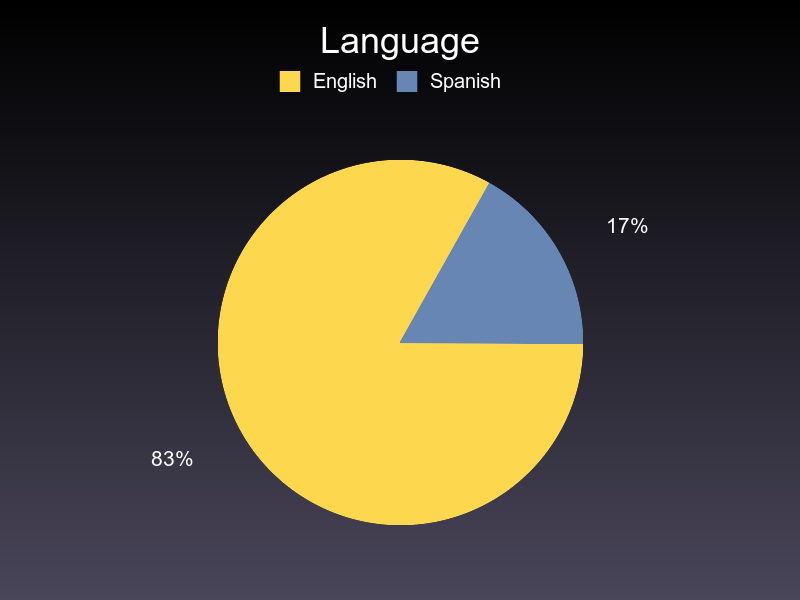
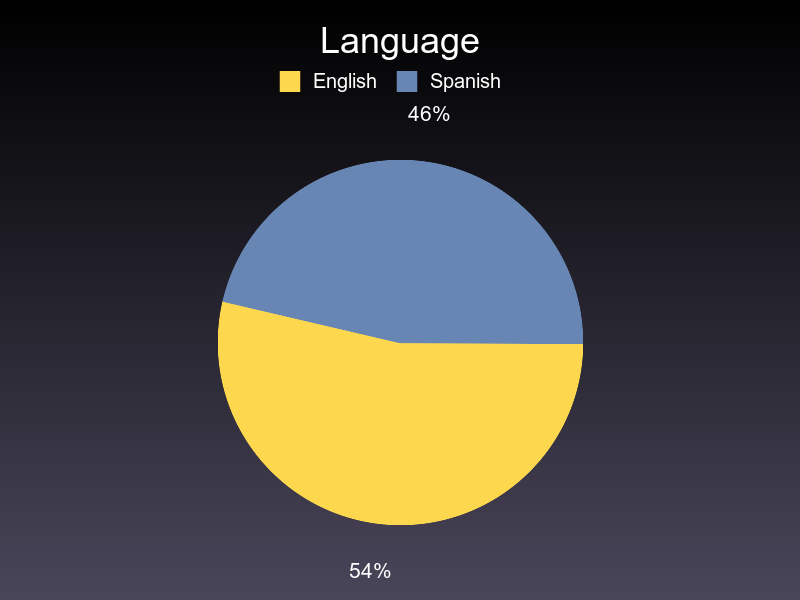
modularize enrollment

diff --git a/stats.rb b/stats.rb
@@ -1,6 +1,9 @@
 require_relative('bin/production.rb')
+require 'dotenv'
+Dotenv.load
 require 'gruff'
 require 'fileutils'
+require 'twilio-ruby'
 
 class Stats
   attr_accessor :name, :users, :start_date, :dir, :time_interval
@@ -30,7 +33,26 @@ class Stats
 
   # refactor so that methods just return arrays and we do the graphing elsewhere
 
+  def text_replies
+    phone_numbers = users.map(:phone)
+
+    client = Twilio::REST::Client.new ENV['TW_ACCOUNT_SID'], ENV['TW_AUTH_TOKEN']
+
+    messages = client.account.messages.list
+    messages.each do |msg|
+      puts msg.body
+    end
+
+  end
+
+
   def draw_graph(graph, url)
+    dirname = "graphs/#{dir}"
+    unless File.directory?(dirname)
+      FileUtils.mkdir_p(dirname)
+    end
+    base_url = "graphs/#{dir}"
+    graph.write("graphs/#{dir}/#{url}")
   end
 
   def dropout_rates(interval=1.week, our_users=users)
@@ -54,7 +76,7 @@ class Stats
       date += interval
     end
     g.data "Number of Dropouts", num_dropouts
-    g.write('graphs/number_of_dropouts.png')
+    # g.write('graphs/number_of_dropouts.png')
 
     return the_dropouts
   end
@@ -65,11 +87,19 @@ class Stats
     dropouts = fb_users.filter(state_table: StateTable.where(subscribed?: false)
                                                       .where{story_number > 1})
 
+    if dropouts.count == 0
+      puts "THERE ARE NO DROPOUTS, YAY!"
+      return 
+    end
+
     # we're going every month
     today = Time.now + 1.week
 
     date_index = 0
     date = dropouts.min(:enrolled_on)
+
+
+
     interval = 2.weeks
 
     g = Gruff::Bar.new
@@ -83,8 +113,6 @@ class Stats
     all_dropouts.each do |dropouts_this_month|
       dropout_weeks = []
       story_nos     = []
-
-      # FINISH THIS IMPLEMENTATION OF DROPOUTS USING DROPOUT_RATES
 
       dropouts_this_month.each do |u|
         st = u.state_table
@@ -101,42 +129,13 @@ class Stats
     end
 
 
-
-    # while date < today
-    #   # using updated_at here... need to make sure that the state_table
-    #   # stops updating when the user is unsubscribed. hmm.........
-    #   # can we do this with a validation? or just sniffing the code?
-    #   dropouts_this_month = dropouts.where(state_table: StateTable.where{updated_at >= date}
-    #                                                               .where{updated_at < date + interval})
-    #   # find the average number of weeks they were on the program
-    #   # and story_number
-
-    #   dropout_weeks = []
-    #   story_nos     = []
-
-    #   dropouts_this_month.each do |u|
-    #     st = u.state_table
-    #     dropout_weeks << (st.updated_at - u.enrolled_on)/1.week
-    #     story_nos << st.story_number
-    #   end
-
-    #   # clever ways to do averages with inject: 
-
-    #   avg_dw = (dropout_weeks.inject(:+).to_f / dropout_weeks.size)
-    #   avg_sn = (story_nos.inject(:+).to_f / story_nos.size)
-
-    #   average_dropout_week << ((dropout_weeks.size > 0) ? avg_dw : 0)
-    #   average_story_number << ((story_nos.size > 0) ? avg_sn : 0)
-
-    #   date += interval
-
-    # end
-
-
     g.data "Average Dropout Week", average_dropout_week
     g.data "Average Dropout Story", average_story_number
 
-    g.write("graphs/average_dropouts2.png")
+    # g.write("graphs/average_dropouts3.png")
+
+
+    draw_graph(g, "average_dropouts.png")
 
     # ok, so we're going to have to extrapolate dropout week from story_number
     # or maybe we can take it from updated_at... if that's the last thing they did
@@ -148,12 +147,53 @@ class Stats
 
   end
 
+  def locale
+    num_english = users.where(locale: 'en').count
+    num_spanish = users.where(locale: 'es').count
+    puts "English: #{num_english} - Spanish: #{num_spanish}"
+
+    g = Gruff::Pie.new
+    g.title = "#{name} parents on StoryTime: language"
+    g.data(:English, num_english)
+    g.data(:Spanish, num_spanish)
+    draw_graph(g, "language.png")
+  end
+
+  def platform
+    num_fb      = users.where(platform: 'fb').count
+    num_sms     = users.where(platform: 'sms').count
+    num_feature = users.where(platform: 'feature').count
+    g = Gruff::Pie.new
+    g.title = "#{name} parents on StoryTime: the tech they use"
+    g.data('Facebook Messenger', num_fb)
+    g.data('Text and picture messages', num_sms + num_feature)
+    # g.data(:Feature, num_feature)
+    draw_graph(g, "platforms.png")
+  end
+
+
+  def enrollment
+    today = Time.now + 1.week
+    enrollment_growth = []
+    start = start_date
+    date = users.where{enrolled_on >= start}.min(:enrolled_on)
+    start = date
+    # prev_week = 1
+    while date < today
+      # enrollment for everyone
+      enrollment = users.where{enrolled_on < date}.count
+      enrollment_growth << enrollment
+      date += 1.week
+    end
+    return enrollment_growth
+  end
+
+
   def growth
     today = Time.now + 1.week
-    g = Gruff::Line.new
-    g.title = "Enrollment over time"
 
-    enrollment_growth = []
+    g = Gruff::Line.new
+    g.title = "Parents enrolled on StoryTime"
 
     percent = Gruff::Line.new
     percent.title = "\% growth over time"
@@ -165,44 +205,64 @@ class Stats
 
     start = start_date
     date = users.where{enrolled_on >= start}.min(:enrolled_on)
+    e_start = date
+
+    enrollment_growth = enrollment()
+    if enrollment_growth.size < 2
+      puts "NOT ENOUGH TIME TO MEASURE GROWTH"
+      return
+    end
 
     # seed with the users who enrolled in the first time_interval
     interval = time_interval
-    prev_week = users.where{(enrolled_on >= date) && (enrolled_on < (date + interval))}.count
+    prev_week = enrollment_growth[1]
 
-    # begin after those initial users have already gone
-    date += time_interval
+    # this is to get the starting date for our other graphs
+    while (users.where{(enrolled_on >= date) && (enrolled_on < (date + interval))}.count) != prev_week
+      date += 1.day
+    end
+    start = date
+    puts "date = #{date}"
 
-    # prev_week = 1
-    while date < today
-      # enrollment for everyone
-      enrollment = users.where{enrolled_on <= date}.count
-      enrollment_growth << enrollment
-      percent_growth << ((enrollment - prev_week) / prev_week.to_f ) * 100
-
-      growth_rate << (enrollment - prev_week)
-
+    enrollment_growth[1..-1].each do |enr|
+      percent_growth << ((enr - prev_week) / prev_week.to_f ) * 100
+      growth_rate << (enr - prev_week)
       date += 1.week
-      prev_week = enrollment
+      prev_week = enr
     end
 
-    percent.labels = r.labels = g.labels = labels(start_date, today, interval)
+    puts enrollment_growth.to_s
+    puts percent_growth.to_s
+    puts growth_rate.to_s
+
+
+    # begin after those initial users have already gone
+    # date += time_interval
+
+    # # prev_week = 1
+    # while date < today
+    #   puts "new date = #{date}"
+    #   # enrollment for everyone
+    #   enrollment = users.where{enrolled_on <= date}.count
+    #   enrollment_growth << enrollment
+    #   percent_growth << ((enrollment - prev_week) / prev_week.to_f ) * 100
+
+    #   growth_rate << (enrollment - prev_week)
+
+    #   date += 1.week
+    #   prev_week = enrollment
+    # end
+    g.labels = labels(e_start, today, 1.week)
+    percent.labels = r.labels = labels(start, today, 1.week)
     percent.data "#{name} percentage growth", percent_growth
 
     r.data "#{name} growth rate", growth_rate
 
-    g.data "#{name} users", enrollment_growth
+    g.data "#{name} parents", enrollment_growth
 
-    dirname = "graphs/#{dir}"
-    unless File.directory?(dirname)
-      FileUtils.mkdir_p(dirname)
-    end
-
-    base_url = "graphs/#{dir}"
-
-    percent.write("#{base_url}/growth.png")
-    g.write("#{base_url}/enrollment.png")
-    r.write("#{base_url}/growth_rate.png")
+    draw_graph(g, "enrollment3.png")
+    draw_graph(percent, "growth3.png")
+    draw_graph(r, "growth_rate3.png")
 
   end
 
@@ -217,7 +277,6 @@ class SchoolStats < Stats
     # maybe do something to calculate a better time interval?
     super(school_name, users, start_date, dir="schools/#{school_name}", time_interval=1.day)
   end
-
 end
 
 # ywca = SchoolStats.new("New Haven Free Public Library")
@@ -232,12 +291,12 @@ class UserStats < Stats
     super(name, users, start_date, dir, time_interval=1.week)
   end
 
-  def dropout_rates(interval=1.week)
+  def dropout_rates(interval=1.week, users=User)
     super(interval, User)
   end
 
 
-  def dropouts(interval=1.month)
+  def dropouts(interval=1.month, users=User)
     super(interval, User)
   end
 
@@ -254,30 +313,6 @@ class UserStats < Stats
     g.write('graphs/schools.png')
   end
 
-  def locale
-    num_english = users.where(locale: 'en').count
-    num_spanish = users.where(locale: 'es').count
-    puts "English: #{num_english} - Spanish: #{num_spanish}"
-
-    g = Gruff::Pie.new
-    g.title = "Language"
-    g.data(:English, num_english)
-    g.data(:Spanish, num_spanish)
-    g.write('graphs/language.png')
-  end
-
-  def platform
-    num_fb      = users.where(platform: 'fb').count
-    num_sms     = users.where(platform: 'sms').count
-    num_feature = users.where(platform: 'feature').count
-    g = Gruff::Pie.new
-    g.title = "Platform share"
-    g.data(:Facebook, num_fb)
-    g.data(:SMS, num_sms)
-    g.data(:Feature, num_feature)
-    g.write('graphs/platform.png')
-  end
-
   def summary
     puts "********************************************************************"
     puts "All Users:"
@@ -290,9 +325,6 @@ class UserStats < Stats
   end
 
 end
-
-# users = UserStats.new
-
 
 
 class AllUsers

diff --git a/test.rb b/test.rb
@@ -1,6 +1,18 @@
 require_relative 'stats'
 
-puts UserStats.new.dropout_rates
+# puts UserStats.new.dropouts
+
+ywca = SchoolStats.new("YWCA")
+
+# ywca.growth
+# ywca.dropouts
+puts ywca.growth
+
+
+
+
+
+
 
 
 # X = User.map do |u|
